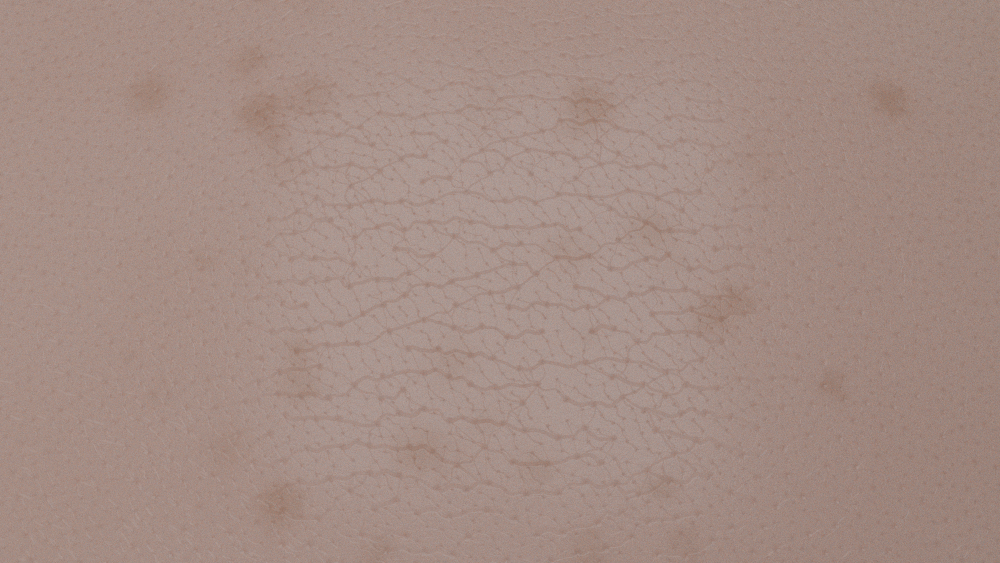
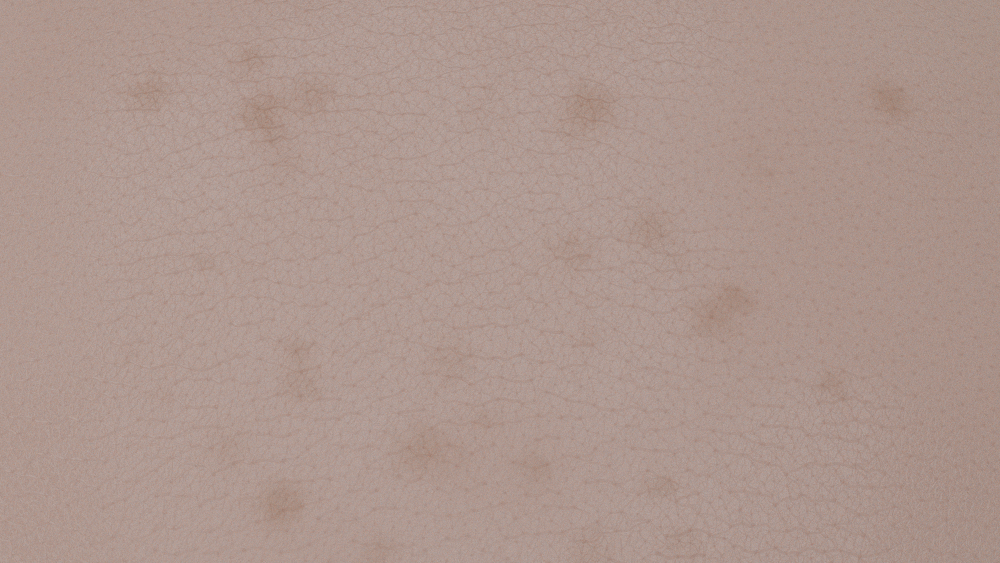
Skin: oily and dry patches of the coat, cheek-like wrinkle levels, a wider light
The graph-based relief bent the normal on average as much as the cellular one but
mostly sat flat between thin steep lines (median tilt 1.9 vs 4.2 degrees), so the
sheen looked flat and the network showed only inside the highlight.
- CoatedDiffuse::setGlossVariation: the weight and the roughness of the coat vary
  slowly over the skin (sebum), per hit, through SurfaceInteraction::glossScale and
  roughScale; scene files get "gloss".
- WrinkleField defaults for a region with a weak preferred direction (spacing
  1.0 / 0.55 / 0.3 mm, depths 40 / 28 / 24 um, base 0.35 / 0.5 / 1.0); the finest
  level is wide enough to show at a pixel of 0.04 mm.
- --scene relief prints, for information, how strongly each relief bends the normal.
- skin_macro uses a larger softbox; the comparison figure is re-rendered under the
  same light and gloss for both reliefs. docs/SKIN.md records the measurement,
  the changes and what still looks made (dark pores, a second specular lobe).

Changed region(s): [[0.651, 0.6945, 0.899, 1.0], [0.558, 0.9663, 0.651, 0.9964], [0.992, 0.8153, 1.0, 0.8455]]

diff --git a/GoLD_rayt/include/Materials/CoatedDiffuse.hpp b/GoLD_rayt/include/Materials/CoatedDiffuse.hpp
@@ -36,6 +36,7 @@
 #include "Materials/Subsurface.hpp"
 #include "Materials/SkinRelief.hpp"
 #include "Materials/SkinPigment.hpp"
+#include "Materials/DensityField.hpp"
 #include "Microfacet/GGX.hpp"
 #include "Color/SpectralConversion.hpp"
 
@@ -87,7 +88,19 @@ namespace rayt {
             return RgbColor(glm::sqrt(pigmentFactor(pi.p, pi.gn))).reflectance(lambda);
         }
 
+        /// Oily and dry patches (sebum): the weight of the coat and its roughness change slowly over the skin, by up to +-`amount` (0..1) of their values,
+        /// the oily patches having the stronger and sharper highlight. `frequency`: patches per metre.
+        void setGlossVariation(Real amount, Real frequency, std::uint32_t seed = 1) {
+            m_glossAmount = std::clamp(amount, Real(0), Real(0.95));
+            m_gloss = m_glossAmount > Real(0) ? std::make_shared<NoiseDensity>(frequency, 2, Real(0.3), Real(0.7), seed) : nullptr;
+        }
+
         void perturbShading(SurfaceInteraction& rec, const Vector3& wo) const override {
+            if (m_gloss) {
+                const Real g = Real(2) * (*m_gloss)(rec.p) - Real(1);   // -1 (dry) .. 1 (oily)
+                rec.glossScale = Real(1) + m_glossAmount * g;
+                rec.roughScale = Real(1) - Real(0.6) * m_glossAmount * g;
+            }
             if (m_relief) rec.n = m_relief->perturb(rec.p, rec.n, wo);
             if (hasPigment()) {   // computed once per hit; with SSS the light passes the pigment twice, so it is applied half going in and half coming out
                 const Vector3 f = pigmentFactor(rec.p, rec.gn);
@@ -128,6 +141,8 @@ namespace rayt {
     private:
         std::shared_ptr<const SkinRelief> m_relief;
         std::shared_ptr<const SkinPigment> m_pigment;
+        std::shared_ptr<const NoiseDensity> m_gloss;
+        Real m_glossAmount = Real(0);
         Real m_poreDark = Real(0);
 
         bool hasPigment() const { return m_pigment || (m_poreDark > Real(0) && m_relief); }
@@ -152,11 +167,15 @@ namespace rayt {
             return f0 + (Spectrum(1.0) - f0) * k;
         }
 
-        Real coatFresnel(Real cosTheta) const { return m_w * fresnel::fresnelDielectric(cosTheta, Real(1), Real(1.5)); }
+        /// The weight of the coat and the roughness at this hit (a skin with oily and dry patches varies them; otherwise the constants).
+        Real weightAt(const SurfaceInteraction& rec) const { return std::clamp(m_w * rec.glossScale, Real(0), Real(1)); }
+        Real alphaAt(const SurfaceInteraction& rec) const { return std::clamp(m_alpha * rec.roughScale, Real(constants::ALPHA_EPSILON), Real(1)); }
 
-        Spectrum diffuse(const Spectrum& R, Real cosO, Real cosI) const {
-            const Real k = (Real(1) - m_m) * (Real(1) - coatFresnel(cosO)) * (Real(1) - coatFresnel(cosI))
-                / (Real(1) - m_w * m_fAvg) / constants::PI;
+        Real coatFresnel(Real cosTheta, Real w) const { return w * fresnel::fresnelDielectric(cosTheta, Real(1), Real(1.5)); }
+
+        Spectrum diffuse(const Spectrum& R, Real cosO, Real cosI, Real w) const {
+            const Real k = (Real(1) - m_m) * (Real(1) - coatFresnel(cosO, w)) * (Real(1) - coatFresnel(cosI, w))
+                / (Real(1) - w * m_fAvg) / constants::PI;
             return R * k;
         }
 
@@ -169,20 +188,21 @@ namespace rayt {
             wh /= std::sqrt(len2);
 
             frame::Frame frame(rec.n);
-            const GGXDistribution dist(m_alpha, m_alpha);
+            const GGXDistribution dist(alphaAt(rec), alphaAt(rec));
             const Vector3 wo_l = frame.worldToLocal(wo), wi_l = frame.worldToLocal(wi), wh_l = frame.worldToLocal(wh);
             const Real D = dist.D(wh_l), G = dist.G(wo_l, wi_l);
             const Real cosD = std::abs(glm::dot(wi, wh));
-            const Spectrum F = Spectrum(coatFresnel(cosD) * (Real(1) - m_m)) + schlick(R, cosD) * m_m;
+            const Spectrum F = Spectrum(coatFresnel(cosD, weightAt(rec)) * (Real(1) - m_m)) + schlick(R, cosD) * m_m;
             return F * (D * G / (Real(4) * cosO * cosI));
         }
 
         /// Probability of sampling the specular lobe: its weight against the diffuse lobe's.
         Real lobeProbability(const SurfaceInteraction& rec, Real cosO) const {
-            if (m_profile) return std::clamp(coatFresnel(cosO), Real(0.05), Real(0.95));   // reflected by the coat, else enters
-            const Real sW = (Real(1) - m_m) * coatFresnel(cosO) + m_m * Real(0.6);
+            const Real w = weightAt(rec);
+            if (m_profile) return std::clamp(coatFresnel(cosO, w), Real(0.05), Real(0.95));   // reflected by the coat, else enters
+            const Real sW = (Real(1) - m_m) * coatFresnel(cosO, w) + m_m * Real(0.6);
             const Vector3 c = albedoAt(rec).rgb();   // wavelength independent: the same value in eval(), sample() and pdf()
-            const Real dW = (Real(1) - m_m) * std::max({ c.x, c.y, c.z }) * (Real(1) - coatFresnel(cosO));
+            const Real dW = (Real(1) - m_m) * std::max({ c.x, c.y, c.z }) * (Real(1) - coatFresnel(cosO, w));
             return std::clamp(sW / std::max(sW + dW, Real(1e-6)), Real(0.05), Real(0.95));
         }
 

diff --git a/GoLD_rayt/include/Materials/WrinkleField.hpp b/GoLD_rayt/include/Materials/WrinkleField.hpp
@@ -84,18 +84,20 @@ namespace rayt {
             std::vector<Level> levels;      ///< empty: the default skin (skinDefault())
         };
 
-        /// Three levels: deeper primary wrinkles along x, shallower diagonal secondary ones, and the finest, more regular network.
+        /// Three levels for a region with a weak preferred direction (a cheek): primary wrinkles with a slight direction along x, secondary ones across,
+        /// and the finest, almost isotropic network. The finest level is wide enough to show at a pixel of 0.04 mm.
         static std::vector<Level> skinDefault() {
             std::vector<Level> v(3);
-            v[0].spacingMm = Real(1.2);  v[0].angleDeg = Real(0);   v[0].base = Real(0.1);  v[0].distance = Real(0.7);
-            v[0].continuation = Real(0.6); v[0].similarity = Real(0.5); v[0].crossing = Real(0.7); v[0].deposit = Real(0.35);
-            v[0].width = Real(0.12); v[0].poreWidth = Real(0.2); v[0].depthUm = Real(40); v[0].wobble = Real(0.2);
-            v[1].spacingMm = Real(0.6);  v[1].angleDeg = Real(50);  v[1].base = Real(0.35); v[1].distance = Real(0.7);
+            v[0].spacingMm = Real(1.0);  v[0].angleDeg = Real(0);   v[0].base = Real(0.35); v[0].distance = Real(0.7);
+            v[0].continuation = Real(0.5); v[0].similarity = Real(0.4); v[0].crossing = Real(0.6); v[0].deposit = Real(0.35);
+            v[0].width = Real(0.13); v[0].poreWidth = Real(0.18); v[0].poreMin = Real(0.5); v[0].depthUm = Real(40); v[0].wobble = Real(0.2);
+            v[1].spacingMm = Real(0.55); v[1].angleDeg = Real(60);  v[1].base = Real(0.5);  v[1].distance = Real(0.7);
             v[1].continuation = Real(0.4); v[1].similarity = Real(0.4); v[1].crossing = Real(0.5); v[1].deposit = Real(0.3);
-            v[1].width = Real(0.14); v[1].poreWidth = Real(0.25); v[1].depthUm = Real(18); v[1].wobble = Real(0.2);
-            v[2].spacingMm = Real(0.3);  v[2].angleDeg = Real(0);   v[2].base = Real(0.8);  v[2].distance = Real(0.7);
+            v[1].width = Real(0.16); v[1].poreWidth = Real(0.2); v[1].poreMin = Real(0.5); v[1].depthUm = Real(28); v[1].wobble = Real(0.2);
+            v[2].spacingMm = Real(0.3);  v[2].angleDeg = Real(120); v[2].base = Real(1.0);  v[2].distance = Real(0.7);
             v[2].continuation = Real(0.3); v[2].similarity = Real(0.3); v[2].crossing = Real(0.5); v[2].deposit = Real(0.3);
-            v[2].width = Real(0.14); v[2].poreWidth = Real(0.12); v[2].depthUm = Real(7); v[2].wobble = Real(0.25); v[2].bulge = false; v[2].darkPores = false;
+            v[2].width = Real(0.3); v[2].poreWidth = Real(0.3); v[2].poreMin = Real(0.3); v[2].depthUm = Real(24); v[2].wobble = Real(0.25);
+            v[2].bulge = false; v[2].darkPores = false;
             return v;
         }
 

diff --git a/GoLD_rayt/src/Cli/SceneFile.cpp b/GoLD_rayt/src/Cli/SceneFile.cpp
@@ -374,7 +374,7 @@ MaterialSpec ParseMaterial(const json& m, const std::string& where) {
         }
     }
     else if (type == "skin") {   // "albedo", "roughness", "specular", "scatterDistanceMm": [r, g, b] (turns subsurface scattering on), "sssScale", "relief": { ... }
-        CheckKeys(m, { "type", "albedo", "roughness", "specular", "scatterDistanceMm", "sssScale", "relief", "pigment" }, where);
+        CheckKeys(m, { "type", "albedo", "roughness", "specular", "scatterDistanceMm", "sssScale", "relief", "pigment", "gloss" }, where);
         s.type = MaterialSpec::Type::Skin;
         s.albedo = Vector3(0.80, 0.52, 0.42);
         s.roughness = 0.5;
@@ -457,6 +457,16 @@ MaterialSpec ParseMaterial(const json& m, const std::string& where) {
             if (!(s.reliefCellMm > 0 && s.reliefFurrowWidth > 0 && s.reliefPoreRadiusMm > 0 && s.reliefStretch > 0 && s.reliefCoarseScale >= 1 && s.reliefCoarseWeight >= 0)) Fail(rw, "needs cellMm, furrowWidth, poreRadiusMm and stretch above 0, coarseScale >= 1 and coarseWeight >= 0");
             if (s.reliefFurrowDepthMm < 0 || s.reliefPoreDepthMm < 0) Fail(rw, "depths must not be negative");
             if (s.reliefPoreFraction < 0 || s.reliefPoreFraction > 1) Fail(rw + ".poreFraction", "must be between 0 and 1");
+        }
+        if (m.contains("gloss")) {   // "gloss": { "variation": 0..0.95, "frequency": patches per metre, "seed" }: oily and dry patches
+            const json& gl = m.at("gloss");
+            const std::string glw = where + ".gloss";
+            if (!gl.is_object()) Fail(glw, "must be an object (variation, frequency, seed)");
+            CheckKeys(gl, { "variation", "frequency", "seed" }, glw);
+            Optional<double>(gl, "variation", glw, s.skinGlossVariation, ReadNumber);
+            Optional<double>(gl, "frequency", glw, s.skinGlossFreq, ReadNumber);
+            double gs = s.skinGlossSeed; Optional<double>(gl, "seed", glw, gs, ReadNumber); s.skinGlossSeed = int(gs);
+            if (s.skinGlossVariation < 0 || s.skinGlossVariation > 0.95 || !(s.skinGlossFreq > 0)) Fail(glw, "variation must be between 0 and 0.95 and frequency above 0");
         }
         if (m.contains("pigment")) {   // "pigment": { "freckleCellMm", "freckleFraction", "freckleRadiusMm", "freckleStrength", "clusterFreq", "blotchFreq", "blotchStrength", "rednessFreq", "rednessStrength", "seed" } (all optional)
             const json& g = m.at("pigment");

diff --git a/GoLD_rayt/src/Cli/Checks/ReliefChecks.cpp b/GoLD_rayt/src/Cli/Checks/ReliefChecks.cpp
@@ -236,6 +236,32 @@ int RunReliefTests(const CliOptions& opt) {
         allPassed = ok2 && allPassed;
     }
 
+    // ---- 9. (information) How strongly the two kinds of relief bend the normal, with the settings of scenes/skin_macro.json ------------------------------
+    {
+        SkinRelief::Params worley;   // the Worley version of the macro scene
+        worley.cell = Real(0.0005); worley.furrowDepth = Real(0.000025); worley.furrowWidth = Real(0.1); worley.stretch = Real(1.5); worley.coarseScale = Real(3);
+        worley.coarseWeight = Real(0.7); worley.poreDepth = Real(0.0001); worley.poreRadius = Real(0.00006); worley.poreFraction = Real(0.3);
+        const SkinRelief a(worley);
+        WrinkleField::Params wp; wp.depthScale = Real(1.6); wp.steps = 300;
+        SkinRelief::Params none; none.furrowDepth = 0; none.coarseWeight = 0; none.poreDepth = 0;
+        SkinRelief b(none);
+        b.setWrinkles(std::make_shared<WrinkleField>(wp));
+        const Vector3 nrm(0, 1, 0), wo(0, 1, 0);
+        for (int k = 0; k < 2; ++k) {
+            const SkinRelief& rel = k == 0 ? a : b;
+            std::vector<double> tilts;
+            tilts.reserve(size_t(n));
+            for (int i = 0; i < n; ++i) {
+                const Point3 p(sampling::Random() * 0.02, 0.0, sampling::Random() * 0.02);
+                tilts.push_back(std::acos(std::clamp<double>(rel.perturb(p, nrm, wo).y, -1, 1)) * 180.0 / constants::PI);
+            }
+            std::sort(tilts.begin(), tilts.end());
+            double mean = 0; for (double t : tilts) mean += t;
+            std::cout << "[Relief] 9. (information) " << (k == 0 ? "Worley furrows and pores" : "wrinkle graph") << ": normal tilt mean " << mean / n << " deg, median "
+                << tilts[tilts.size() / 2] << ", 90th percentile " << tilts[tilts.size() * 9 / 10] << ", share above 10 deg " << 100.0 * double(tilts.end() - std::upper_bound(tilts.begin(), tilts.end(), 10.0)) / n << " %\n";
+        }
+    }
+
     std::cout << "[Relief] RESULT: " << (allPassed ? "PASS" : "FAIL") << "\n";
     return allPassed ? 0 : 2;
 }

diff --git a/GoLD_rayt/src/Materials/CoatedDiffuse.cpp b/GoLD_rayt/src/Materials/CoatedDiffuse.cpp
@@ -15,7 +15,7 @@ namespace rayt {
 
         const Spectrum R = albedoAt(rec).reflectance(lambda);
         if (m_profile) return specular(rec, wo, wi, R, cosO, cosI);   // the diffuse lobe is the subsurface event
-        return diffuse(R, cosO, cosI) + specular(rec, wo, wi, R, cosO, cosI);
+        return diffuse(R, cosO, cosI, weightAt(rec)) + specular(rec, wo, wi, R, cosO, cosI);
     }
 
     std::optional<BSDFSample> CoatedDiffuse::sample(const SurfaceInteraction& rec, const Vector3& wo, const Point2& u,
@@ -30,14 +30,14 @@ namespace rayt {
         const Real pS = lobeProbability(rec, wo_local.z);
         BSDFSample s;
         if (u.x < pS) {
-            const GGXDistribution dist(m_alpha, m_alpha);
+            const GGXDistribution dist(alphaAt(rec), alphaAt(rec));
             const Vector3 wh = frame.localToWorld(dist.sample_wh(wo_local, Point2(u.x / pS, u.y)));
             s.wi = math::reflectOutward(wo, wh);
         }
         else if (m_profile) {
             // The light passes the coat (probability 1 - w F) and enters: the integrator picks the exit.
             // Choosing it with probability 1 - pS gives the weight (1 - w F) / (1 - pS), exactly 1 unless pS was clamped.
-            s.f = Spectrum((Real(1) - coatFresnel(wo_local.z)) / (Real(1) - pS));
+            s.f = Spectrum((Real(1) - coatFresnel(wo_local.z, weightAt(rec))) / (Real(1) - pS));
             s.pdf = Real(1);
             s.wi = rec.n;
             s.flags = BxDFFlags::Subsurface;
@@ -70,7 +70,7 @@ namespace rayt {
         wh /= std::sqrt(len2);
 
         frame::Frame frame(rec.n);
-        const GGXDistribution dist(m_alpha, m_alpha);
+        const GGXDistribution dist(alphaAt(rec), alphaAt(rec));
         const Vector3 wo_local = frame.worldToLocal(wo), wh_local = frame.worldToLocal(wh);
         const Real dotOH = std::abs(glm::dot(wo_local, wh_local));
         const Real pdfSpec = dotOH > 0 ? dist.pdf(wo_local, wh_local) / (Real(4) * dotOH) : Real(0);

diff --git a/GoLD_rayt/include/Core/Interaction.hpp b/GoLD_rayt/include/Core/Interaction.hpp
@@ -73,6 +73,8 @@ namespace rayt {
         const Medium* medium = nullptr;   // The medium surrounding the interaction point.
         Real time = 0.0;                  // Ray time for motion blur / time-varying transforms.
         bool frontFace = true;            // True if the ray hit the "front" side of the surface.
+        Real glossScale = Real(1);           // Multiplies the weight of the coat (skin sebum: oily or dry patches), set by Material::perturbShading.
+        Real roughScale = Real(1);           // Multiplies the roughness of the coat, set by Material::perturbShading.
         Vector3 albedoTint = Vector3(1.0);   // Multiplies the base color: set once per hit by Material::perturbShading (skin pigment), so that eval / pdf / sample do not recompute it.
         Real rayOffset = constants::RAY_EPSILON;   // Distance a spawned ray's origin is moved off the surface (a hair fiber, thinner than 25 * RAY_EPSILON, sets it smaller).
 

diff --git a/GoLD_rayt/include/Cli/SceneDescription.hpp b/GoLD_rayt/include/Cli/SceneDescription.hpp
@@ -112,6 +112,8 @@ struct MaterialSpec {
     double reliefCellMm = 0.6, reliefFurrowDepthMm = 0.04, reliefFurrowWidth = 0.12, reliefPoreDepthMm = 0.08, reliefPoreRadiusMm = 0.07, reliefPoreFraction = 0.35;
     double reliefStretch = 1, reliefCoarseScale = 3, reliefCoarseWeight = 0.8;
     double reliefPoreSizeVariation = 0.5, reliefPoreDensityVariation = 0.6, reliefPoreDensityFreq = 60, reliefPoreDarkness = 0;
+    double skinGlossVariation = 0, skinGlossFreq = 60;   //   oily and dry patches (CoatedDiffuse::setGlossVariation)
+    int skinGlossSeed = 1;
     bool skinPigment = false;                      //   uneven color (Materials/SkinPigment.hpp)
     double pigFreckleCellMm = 2.5, pigFreckleFraction = 0.5, pigFreckleRadiusMm = 0.8, pigFreckleStrength = 0.8, pigClusterFreq = 40;
     double pigBlotchFreq = 150, pigBlotchStrength = 0.15, pigRednessFreq = 35, pigRednessStrength = 0.5;

diff --git a/GoLD_rayt/src/Cli/Scenes/FileScene.cpp b/GoLD_rayt/src/Cli/Scenes/FileScene.cpp
@@ -267,6 +267,7 @@ std::optional<int> BuildFromDescription(SceneContext& ctx, SceneSetup& out) {
                 }
                 skin->setRelief(relief);
             }
+            if (m.skinGlossVariation > 0) skin->setGlossVariation(Real(m.skinGlossVariation), Real(m.skinGlossFreq), std::uint32_t(m.skinGlossSeed));
             if (m.skinPigment || (m.skinRelief && m.reliefPoreDarkness > 0)) {
                 std::shared_ptr<const SkinPigment> pigment;
                 if (m.skinPigment) {

diff --git a/docs/SKIN.md b/docs/SKIN.md
@@ -9,6 +9,7 @@
 | 皮膚の微細な凹凸 `SkinRelief`（3 次元の Worley ノイズで、皮溝のネットワークと毛穴の高さを作り、法線を曲げる） | `include/Materials/SkinRelief.hpp` |
 | 皮膚の色の揺らぎ `SkinPigment`（そばかす、うっすらしたシミ、赤み）。毛穴の暗さ（`SkinRelief::poreMask`） | `include/Materials/SkinPigment.hpp` |
 | 皮溝と毛穴のグラフ合成 `WrinkleField`（Weiss ら 2023 の手法の CPU 版。毛穴を節点、皮溝を辺とする） | `include/Materials/WrinkleField.hpp` |
+| 光沢の揺らぎ（皮脂の多い所と少ない所）`CoatedDiffuse::setGlossVariation`（コートの強さと粗さを、ヒットごとに `SurfaceInteraction::glossScale` / `roughScale` で変える） | `include/Materials/CoatedDiffuse.hpp` |
 | 材質のフック `Material::perturbShading`（ヒットの直後に、材質が陰影の法線を差し替える）。`CoatedDiffuse::setRelief`、`setPigment`。出射点の係数のフック `Material::subsurfaceExitTint` | `include/Materials/Material.hpp`、`CoatedDiffuse.hpp`、`src/Render/Integrator.cpp` |
 | シーンファイルの `"type": "skin"`（表面下散乱と凹凸を JSON で）、`lathe` の `translate` | `src/Cli/SceneFile.cpp`、`docs/SCENE_FILE.md` |
 | 自己チェック `--scene relief` | `src/Cli/Checks/ReliefChecks.cpp` |
@@ -42,6 +43,7 @@
 **このエンジンへの載せ方。**
 - 結果は、**1 枚のタイル（24 mm、2048²）の高さマップ**。トーラス（端がつながる）として作るので、繰り返しても継ぎ目が出ない。
 - 物体には、**3 方向の投影の混合（triplanar）**で当てる。UV が要らず、球でも円柱でも使える。法線は、高さの勾配から（これまでの `SkinRelief` と同じ）。毛穴の暗さ（色素）にも、同じ場の毛穴を使う。
+- 層の既定値（頬のように、主方向が弱い部位）: 間隔 1.0 / 0.55 / 0.3 mm、深さ 40 / 28 / 24 µm、主方向 0° / 60° / 120°、主方向の強さ `base` 0.35 / 0.5 / 1.0（最後は等方）。最初は、額のように主方向の強い設定（0.1〜0.8、深さ 40 / 18 / 7 µm）だったが、細かい層が浅く細くて、画素（0.04 mm）に埋もれた。
 - 作成は、約 9 秒（3 層、毛穴 8000 個、辺 2 万本）。JSON は `"relief": { "wrinkles": { ... } }`。`RAYT_WRINKLE_DUMP=ファイル.png` で高さマップ、`RAYT_WRINKLE_DUMP_PORES=ファイル.png` で毛穴のマスクを書き出せる。
 
 **論文との違い**（正直に）:
@@ -52,6 +54,12 @@
 - 層の値（間隔 1.2 / 0.6 / 0.3 mm、深さ 40 / 18 / 7 µm、主方向 0° と副方向 50°）は、論文の範囲（主線 20〜100 µm、副線 5〜40 µm）を参考に、**目で決めた**。
 
 **結果。** 高さマップ（暗い = 谷）で、Worley の網目と比べて、主線が x 方向にそろい、途中で途切れ、副線が斜めに交差する、皮膚らしい線になった。
+
+## 2.45 光沢の揺らぎ（皮脂）
+
+皮膚の艶は、一様ではない。皮脂の多い所（鼻、額）は、強く鋭いハイライトを持ち、乾いた所は鈍い。皮膚の接写で「艶がない」と感じた原因の一つは、コートの強さと粗さが**どこでも同じ**だったことだった。
+
+`gloss: { "variation": 0.65, "frequency": 70 }`: 低周波のノイズ g ∈ [−1, 1]（1 cm 台の斑。`frequency` は 1 m あたりの数）で、コートの強さを (1 + variation · g) 倍、粗さを (1 − 0.6 variation · g) 倍にする。皮脂の多い所（g > 0）は、強く、粗さが低い。ヒットごとに 1 回だけ計算し、`SurfaceInteraction` に入れる（`CoatedDiffuse` の評価・標本抽出・確率密度が同じ値を使う）。表面下散乱の出射ローブのコートの重みは、固定のまま（変化の範囲が小さいので、エネルギーの食い違いは小さい）。
 
 ## 2.5 色素の揺らぎ（そばかす、シミ、赤み、毛穴の暗さ）
 
@@ -97,23 +105,24 @@
 
 **注意**: 2 つの指の「同じ光学定数」は、アルベド逆変換による対応で、厳密な一致ではない（表面の境界の扱いも違う）。数値の比（0.44）は、目安。
 
-## 4. 皮膚の接写（凹凸と色素）
+## 4. 皮膚の接写（凹凸、色素、光沢）
 
-![皮膚の接写（4.3 cm 幅）: 方向のそろった細い皮溝、毛穴、そばかす](img/skin_macro.png)
+![皮膚の接写（4.3 cm 幅）: 皮溝の網目、毛穴、そばかす、やわらかい艶](img/skin_macro.png)
 
-（`scenes/skin_macro.json`。1000 × 563、384 spp、デノイズなし。6.8 分。凹凸はグラフ合成（2.4 節）、色は色素（2.5 節）。）
+（`scenes/skin_macro.json`。1000 × 563、384 spp、デノイズなし。6.6 分。凹凸はグラフ合成（2.4 節）、光沢の揺らぎ（2.45 節）、色は色素（2.5 節）。）
 
-**Worley の網目（2 節）との比較**（同じ構図、同じ色素、同じ光。左が Worley、右がグラフ合成）:
+**Worley の網目（2 節）との比較**（同じ構図、同じ色素、同じ光と光沢。左が Worley、右がグラフ合成。どちらも 6〜7 分）:
 
 ![Worley の皮溝（左）とグラフ合成（右）](img/skin_relief_compare.png)
 
-**これで分かったこと**
-- 凹凸は、**光沢のハイライトの中に**現れる（表面の皮脂のコート）。拡散の部分は、表面下散乱で光が数 mm にぼやけるので、細かい凹凸は消える。色素と毛穴の暗さは、拡散の部分でも見える。
-- **一様に大きな光源では、凹凸が見えない**。法線が曲がっても、一様な光を反射するだけだから。小さな光源にして、ハイライトを画面の中央に置いた。
-- Worley の皮溝（左）は、**規則的な網目で、ひび割れた革に見えた**。グラフ合成（右）は、**主線が x 方向にそろい、途中で途切れ、斜めの副線と細かい網目が重なる**。毛穴は、黒い点として、皮溝の端と節に並ぶ。**皮膚の接写の写真に近い見え方**になった。
-- そばかす、赤み、毛穴の暗さ（色素）が、一様な色を崩す。
+**調整の経過と分かったこと**
+- 最初のグラフ合成（主方向の強い設定、小さな光源）は、「網目が画面の中心にしかない」「艶がない」と感じた。`--scene relief` の 9 で、法線の曲がりを測ると、**平均の傾きは Worley とほぼ同じ（6.4° と 6.6°）だが、中央値が半分（1.9° と 4.2°）**だった。つまり、グラフ合成は、大半が平らで、細い線と毛穴だけが急に傾いていた。艶は、傾いた小さな面がハイライトを拾う**きらめきの広がり**として見えるので、平らな部分が多いと、のっぺりして見える。細かい層（幅 0.04 mm、深さ 7 µm）は、画素（0.043 mm）より細くて、画面では平均されて消えた。
+- 直し方: (1) 細かい層を、深く、太くした（深さ 7 → 24 µm、幅 0.14 → 0.3）。(2) 主方向を弱めた（頬のような、力が一様な部位は、論文のとおり、等方的な網目になる）。(3) 毛穴を、深く、大きくした。結果、法線の傾きの中央値が 1.9° → 13.6°、10° 超の割合が 24% → 58% になった（Worley は 4.2°、25%）。
+- **光源を大きく**した。凹凸は、ハイライトの中でしか見えない。小さな光源では、ハイライトが中央だけになる。大きな光源（0.3 × 0.3 m）で、艶（ハイライト）が画面全体に広がり、網目が全体に見える。一様に大きな光源では凹凸が見えない、という前の結論は、凹凸が**十分に急**なら緩む（法線の傾きが大きいと、光源の縁の外まで反射が届く）。
+- **光沢の揺らぎ**（皮脂の多い所と少ない所）を足した。コートの強さを 0.75 にし、粗さを 0.15 にして、斑状に ±65% 変える。
+- 右（グラフ合成）は、網目が全体に見え、やわらかい艶、そばかす、赤みが重なる。左（Worley）は、毛穴の黒い点がはっきり出るが、網目は、隅のひび割れ（右下）にしか見えない。
 
-**出来の評価（正直に）**: 前よりかなり皮膚らしい。残る不自然さは、(1) 毛穴が、規則正しく並んでいる（Poisson ディスクの性質。密度のむらは、ゆるく足しただけ）、(2) そばかすの縁が柔らかく、形がぼんやりしている、(3) タイル（24 mm）が繰り返す（接写の 2 倍の幅なので、画面の中では目立たないが、広い範囲では見えるはず）、(4) 色が単調（メラニンとヘモグロビンの分布がない）、(5) 光沢が一様（皮脂の多い所と少ない所がない）。
+**出来の評価（正直に）**: 右は、皮膚の接写に近い。残る不自然さは、(1) 毛穴の黒い点が、左（Worley）より弱い（グラフ合成の毛穴は、小さく浅い）、(2) 艶は、まだ控えめ（強い鋭いハイライトの斑がない）、(3) 網目が、細い線ばかりで、深い皺（主線）が少ない、(4) 毛穴が、規則正しく並ぶ（Poisson ディスクの性質）、(5) そばかすの縁が柔らかい、(6) タイル（24 mm）が繰り返す、(7) 色が単調。
 
 ## 5. 確かめたこと（`--scene relief`、RGB・スペクトルとも PASS）
 
@@ -129,6 +138,13 @@
 | **グラフ合成**（1 層、12 mm のタイル）: 同じ種で同じ結果、種が違えば違う結果。周期的（1 タイル離れた点が同じ高さ）。高さ ≤ 最大の深さ。毛穴のマスクが 0〜1。主線が主方向に走る（勾配のエネルギーが、線を横切る向きに 4.3 倍） | 高さ −24.7 .. 1.8 µm、平均 −1.1 µm、勾配のエネルギー比 4.3 |
 | グラフ合成から曲げた法線: 単位長、平均が元の法線 | 平均 (−1 × 10⁻⁴, 1 × 10⁻⁴)、標準誤差 2〜4 × 10⁻⁴。平均の傾き 2.7° |
 
+**情報**（`--scene relief` の 9。合否には使わない）: 接写の設定での、法線の曲がり（平らな面で、2 cm 角、乱数 5 万点）。
+
+| 凹凸 | 平均 | 中央値 | 90 パーセンタイル | 10° 超 |
+|---|---|---|---|---|
+| Worley の皮溝と毛穴 | 6.6° | 4.2° | 16.6° | 24.7% |
+| グラフ合成（既定の層、`depthScale` 1.6） | 14.5° | 13.6° | 30.8° | 58.0% |
+
 既存の検査（lights、volume、layered、sss、aniso、ocean、hair）は、変更後も PASS。毛穴の検査は、乱数の標本が小さいので、まれに揺らぐ（基準を緩めてある）。
 
 ## 6. 限界と次
@@ -139,8 +155,9 @@
 - **光学係数は、記憶による典型値**（散乱距離 3.67 / 1.37 / 0.68 mm、アルベド）。**文献値や実測の分光反射率との照合は、まだしていない**（次の作業）。
 - 指は、回転体（爪、関節、骨はない）。体積の指は、BSSRDF の指と、光学定数の対応が厳密でない（3 節）。
 - 皮膚の接写は、球の一部。血管、産毛、年齢による変化は表現していない。色素の色（斑の色、赤み）と強さは、**目で決めた値**で、実測や文献とは照合していない。色素の「入るとき半分、出るとき半分」の扱いも、自分で選んだもので、検証していない。
+- 光沢の揺らぎは、コートの強さと粗さだけ（2 つ目のローブ、皮溝の中の粗さの変化、毛穴の汗はない）。
 - 色素と毛穴の暗さで、描画が約 2 倍遅くなる（係数を、ヒットごとに 1 回だけ計算して使い回している）。
-- 次の候補: 部位ごとに向きと密度が変わる場（顔の流れ）、毛穴の密度のむら、そばかすの縁と形の改善、光沢の揺らぎ（皮脂）、産毛、文献値との照合、耳のような薄く曲がった形、スキャンされた指・手のメッシュの読み込み、BSSRDF の薄い所の補正（体積への切り替え、有限の厚さのプロファイル。`docs/SSS.md` 第 13 節）。
+- 次の候補: 毛穴の黒い点を強める（深さと大きさ）、強いハイライトの斑（2 つ目の鏡面ローブ）、深い主線、部位ごとに向きと密度が変わる場（顔の流れ）、毛穴の並びの不規則化、そばかすの縁と形の改善、産毛、文献値との照合、耳のような薄く曲がった形、スキャンされた指・手のメッシュの読み込み、BSSRDF の薄い所の補正（体積への切り替え、有限の厚さのプロファイル。`docs/SSS.md` 第 13 節）。
 
 ## 7. 参考文献
 

diff --git a/docs/SCENE_FILE.md b/docs/SCENE_FILE.md
@@ -66,7 +66,7 @@ Visual Studio では、「プロジェクトのプロパティ → デバッグ 
 | `dielectric` | `ior`、`roughness`、`abbe`（分散。0 = なし）、`sellmeier`（分散を Sellmeier の式で与える。ガラスの名前 `"diamond"`・`"sapphire"`・`"bk7"`・`"silica"`、または `{ "b": [b1, b2, b3], "c": [c1, c2, c3] }`（c は µm²）。`abbe` とは両立しない。RGB ビルドは d 線の屈折率）、`distanceRoughness`（`{ "roughness", "start", "end" }`: y 軸からの距離が start から end の間に、粗さがこの値まで増える。メッシュで解像できない遠くの小さな波の傾きを、粗さとして返す。海に使う）、`medium`（内側を散乱媒質で満たす。下） |
 | `thinFilm` | 滑らかな面の上の、薄い透明な膜の干渉（シャボン玉、油膜、コーティングされた金属）。`ior`（膜）、`thickness`（nm の数値、または勾配 `from`/`to`/`axis`/`range`/`exponent`、`warp`、`noise`（`stretch` あり））、`coverage`（膜のある場所のマスク）、`substrate`（`"free"`、`{ "dielectric": n }`、`{ "metal": "Au" }`）。理論と例は `docs/THIN_FILM.md` |
 | `layered` | 透明なコートが、下地の上にある材質（漆を塗った金、車の塗装）。`coat`: `{ "ior", "roughness", "tint", "samples" }`（コートの屈折率、粗さ、法線方向の透過率 RGB（1 = 透明）、1 回の評価での追跡の数）。`base`: `{ "albedo" }`（拡散）または `{ "metal" | "table" | "reflectance", "roughness", "anisotropy", "rotation", "multipleScattering" }`（金属）のどちらか 1 つ。理論と例は `docs/GLOSS.md` |
-| `skin` | 肌（`CoatedDiffuse`）。`albedo`（既定 0.80, 0.52, 0.42）、`roughness`（既定 0.5）、`specular`（皮脂のコートの重み、既定 0.4）。`scatterDistanceMm`（RGB、mm。例 `[3.67, 1.37, 0.68]`）を書くと**表面下散乱**（Burley のプロファイル、`sssScale` で倍率）。`relief`（省略可。毛穴と皮溝の凹凸: `cellMm`、`furrowDepthMm`、`furrowWidth`、`stretch`、`coarseScale`、`coarseWeight`、`poreDepthMm`、`poreRadiusMm`、`poreFraction`、`poreSizeVariation`、`poreDensityVariation`、`poreDensityFreq`、`poreDarkness`（毛穴を暗くする、0〜1）、`seed`。法線だけを曲げる）。`relief` の中の `wrinkles`（**皮溝と毛穴をグラフ合成で作る**: `tileMm`（既定 24）、`resolution`（2048）、`steps`（300）、`depthScale`、`seed`、`levels`（省略可。層ごとの `spacingMm`、`angleDeg`、`base`、`distance`、`continuation`、`similarity`、`crossing`、`deposit`、`width`、`poreWidth`、`poreMin`、`poreBlend`、`poreSkew`、`wobble`、`wobbleFreq`、`depthUm`、`bulge`、`darkPores`）。これを書くと、Worley の皮溝と毛穴は使われない）。`pigment`（省略可。色の揺らぎ: `freckleCellMm`、`freckleFraction`、`freckleRadiusMm`、`freckleStrength`、`clusterFreq`、`blotchFreq`、`blotchStrength`、`rednessFreq`、`rednessStrength`、`seed`）。`docs/SKIN.md` |
+| `skin` | 肌（`CoatedDiffuse`）。`albedo`（既定 0.80, 0.52, 0.42）、`roughness`（既定 0.5）、`specular`（皮脂のコートの重み、既定 0.4）。`scatterDistanceMm`（RGB、mm。例 `[3.67, 1.37, 0.68]`）を書くと**表面下散乱**（Burley のプロファイル、`sssScale` で倍率）。`relief`（省略可。毛穴と皮溝の凹凸: `cellMm`、`furrowDepthMm`、`furrowWidth`、`stretch`、`coarseScale`、`coarseWeight`、`poreDepthMm`、`poreRadiusMm`、`poreFraction`、`poreSizeVariation`、`poreDensityVariation`、`poreDensityFreq`、`poreDarkness`（毛穴を暗くする、0〜1）、`seed`。法線だけを曲げる）。`relief` の中の `wrinkles`（**皮溝と毛穴をグラフ合成で作る**: `tileMm`（既定 24）、`resolution`（2048）、`steps`（300）、`depthScale`、`seed`、`levels`（省略可。層ごとの `spacingMm`、`angleDeg`、`base`、`distance`、`continuation`、`similarity`、`crossing`、`deposit`、`width`、`poreWidth`、`poreMin`、`poreBlend`、`poreSkew`、`wobble`、`wobbleFreq`、`depthUm`、`bulge`、`darkPores`）。これを書くと、Worley の皮溝と毛穴は使われない）。`gloss`（省略可。皮脂の多い所と少ない所: `variation`（0〜0.95）、`frequency`（1 m あたりの斑の数）、`seed`）。`pigment`（省略可。色の揺らぎ: `freckleCellMm`、`freckleFraction`、`freckleRadiusMm`、`freckleStrength`、`clusterFreq`、`blotchFreq`、`blotchStrength`、`rednessFreq`、`rednessStrength`、`seed`）。`docs/SKIN.md` |
 | `hair` | 髪の毛 1 本の散乱（メラニンの色づき、R・TT・TRT のハイライト。`docs/HAIR.md`）。吸収は、`melanin`（`[真性, 亜性]`。黒 `[8, 0]`、茶 `[1.3, 0.1]`、赤 `[0.4, 1.4]`、金髪 `[0.25, 0.15]`、白髪 `[0, 0]`）、`color`（見た目の色 RGB、各 (0, 1]）、`sigmaA`（毛の半径あたりの吸収 RGB）の**どれか 1 つ**（既定は `melanin` [1.3, 0]）。`eta`（既定 1.55）、`betaM`・`betaN`（縦・方位の粗さ、0〜1、既定 0.3）、`tilt`（キューティクルの傾き、度、既定 2）、`lobes`（`["R", "TT", "TRT", "rest"]` の一部だけを描く。説明用） |
 | `emission` | `spectrum`、`radiance`、`twoSided` |
 

diff --git a/README.md b/README.md
@@ -224,7 +224,7 @@ Speed on the author's PC (8 threads, Release, RGB): the gold scene at 800x450, 2
 - **Lights**: point, sphere, rectangle, emissive triangle meshes, HDR environment map (importance sampled). Selection:
   uniform, power, spatial importance (PBRT-style bounds), or all lights.
 - **Materials**: Lambertian (textures, alpha cut-outs, translucent layers), `CoatedDiffuse` (diffuse under a GGX coat,
-  optional metal blend, subsurface scattering, a procedural skin micro-relief that bends the shading normal (furrows between pores from a graph simulation, or a simple cellular noise), and uneven skin color: freckles, flush), `LayeredCoat` (a clear coat over a diffuse or metal base, summed by a random walk
+  optional metal blend, subsurface scattering, a procedural skin micro-relief that bends the shading normal (furrows between pores from a graph simulation, or a simple cellular noise), uneven skin color: freckles, flush, and oily and dry patches of the coat), `LayeredCoat` (a clear coat over a diffuse or metal base, summed by a random walk
   between the layers), `RoughConductor` (also anisotropic: brushed or turned metal, with the tangent taken from the shape),
   `Dielectric` (smooth or rough, dispersive), `Hair` (one fiber: reflection, transmission and internal reflection, colored by melanin), `DiffuseLight`.
 - **Geometry**: spheres, rectangles, triangle meshes (OBJ, PMX), an ocean surface built from a wave spectrum (wind speed, sun glitter), and
